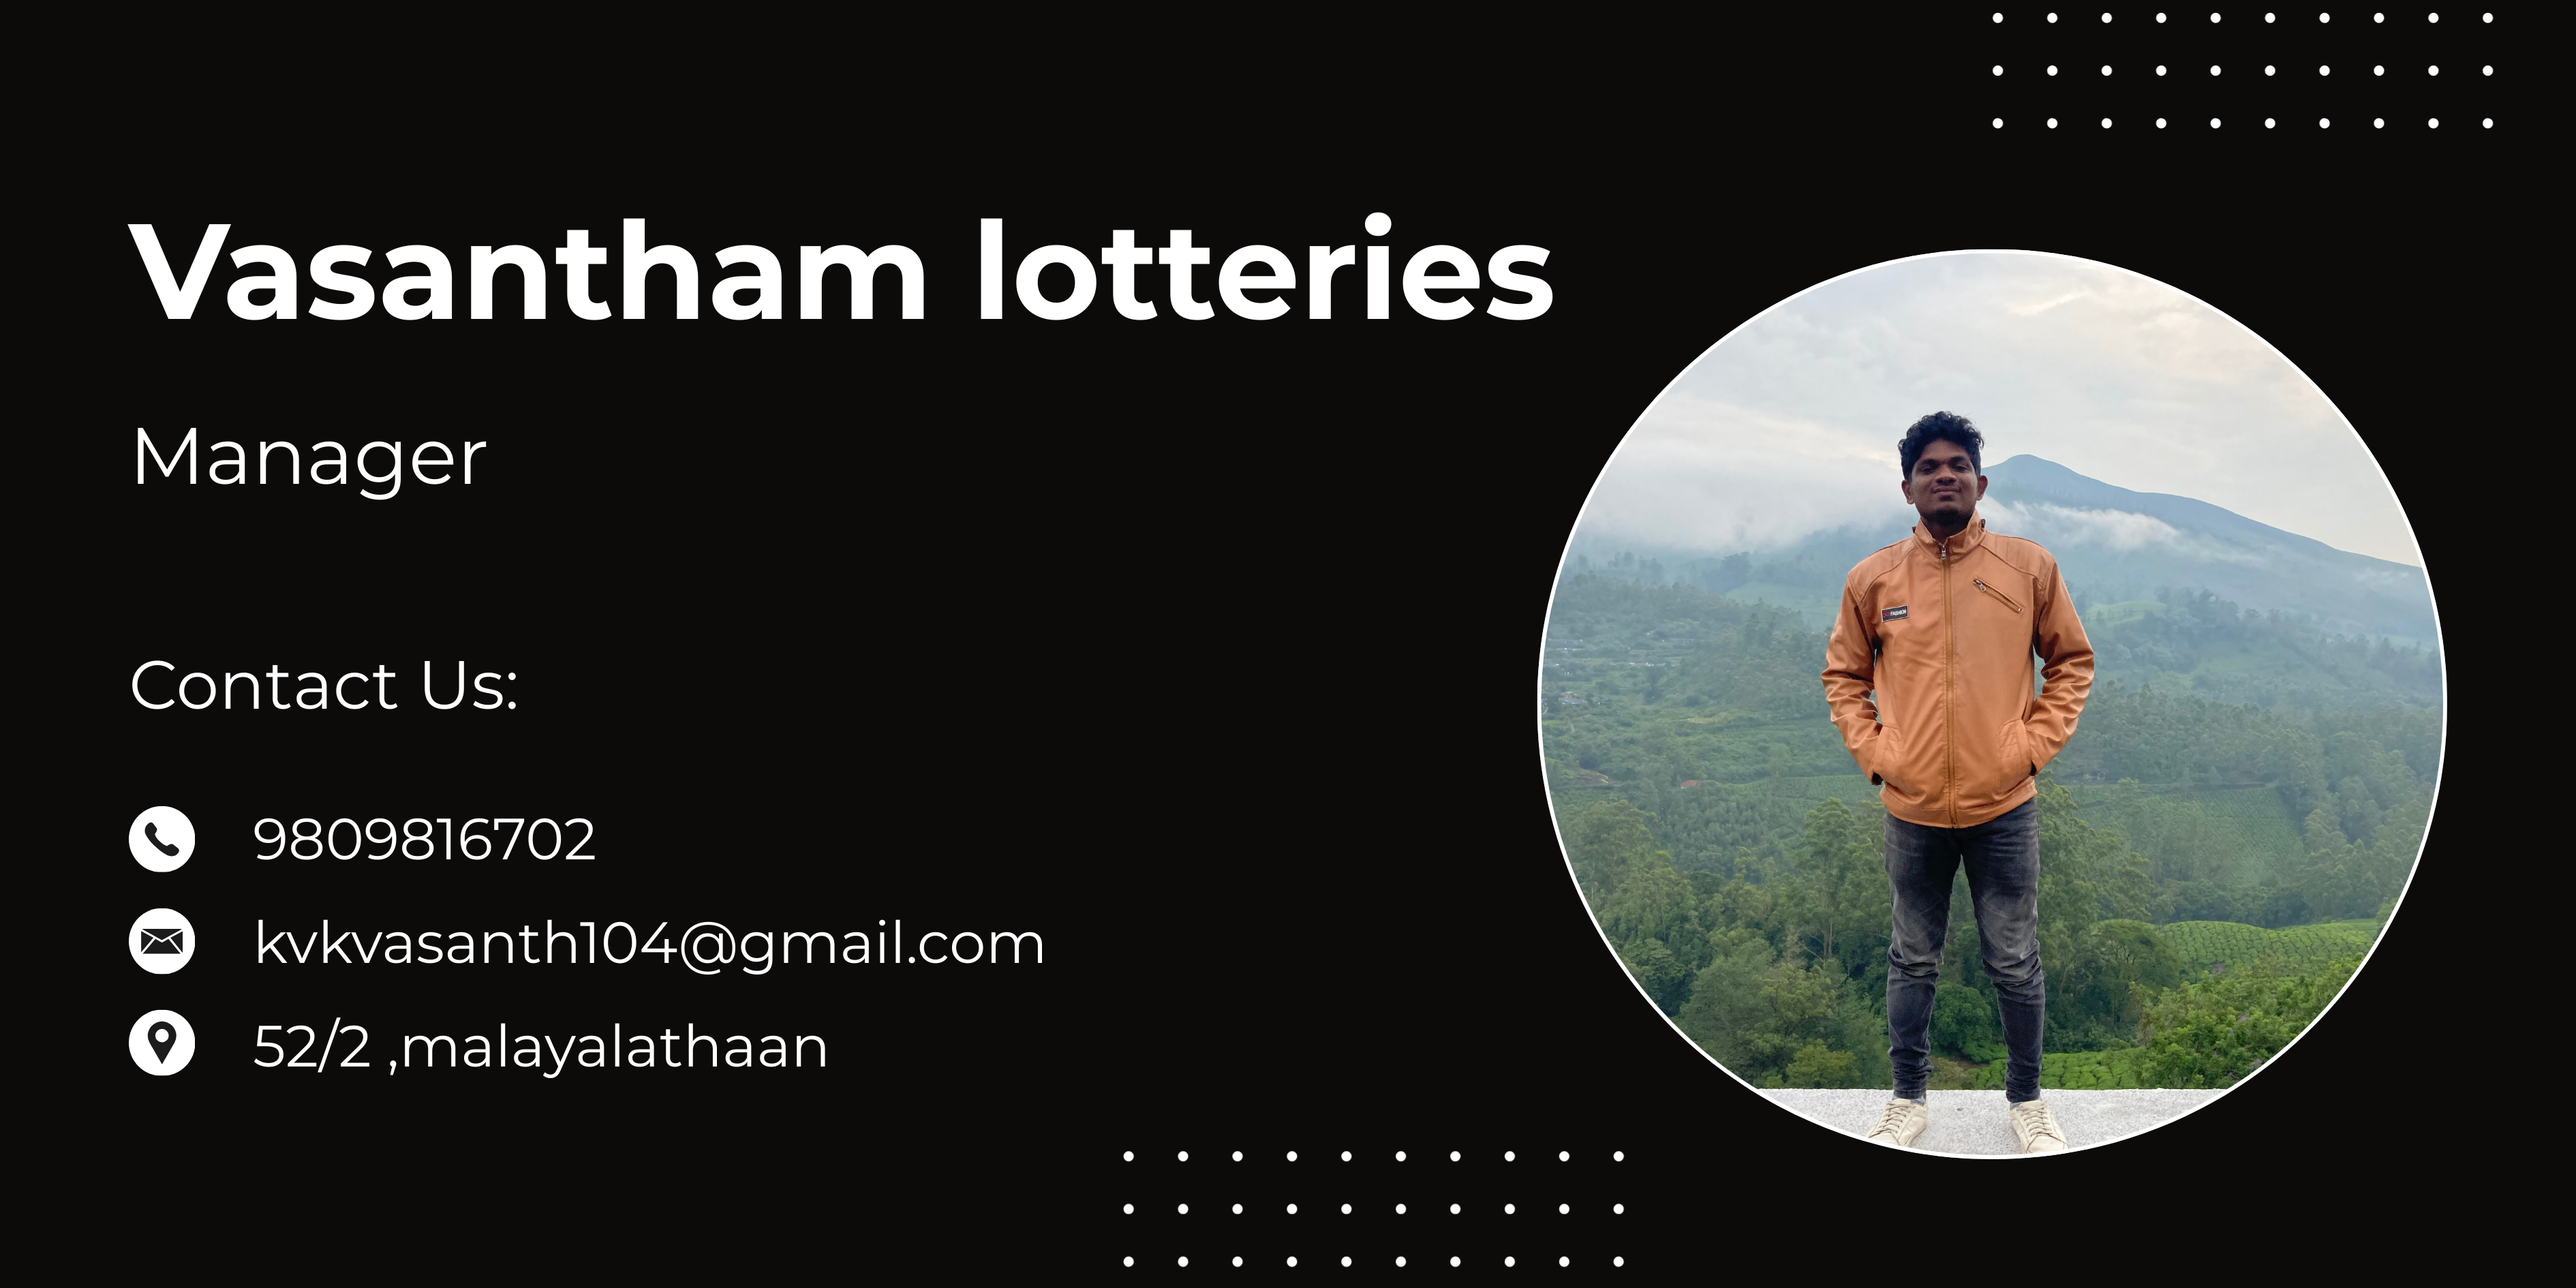
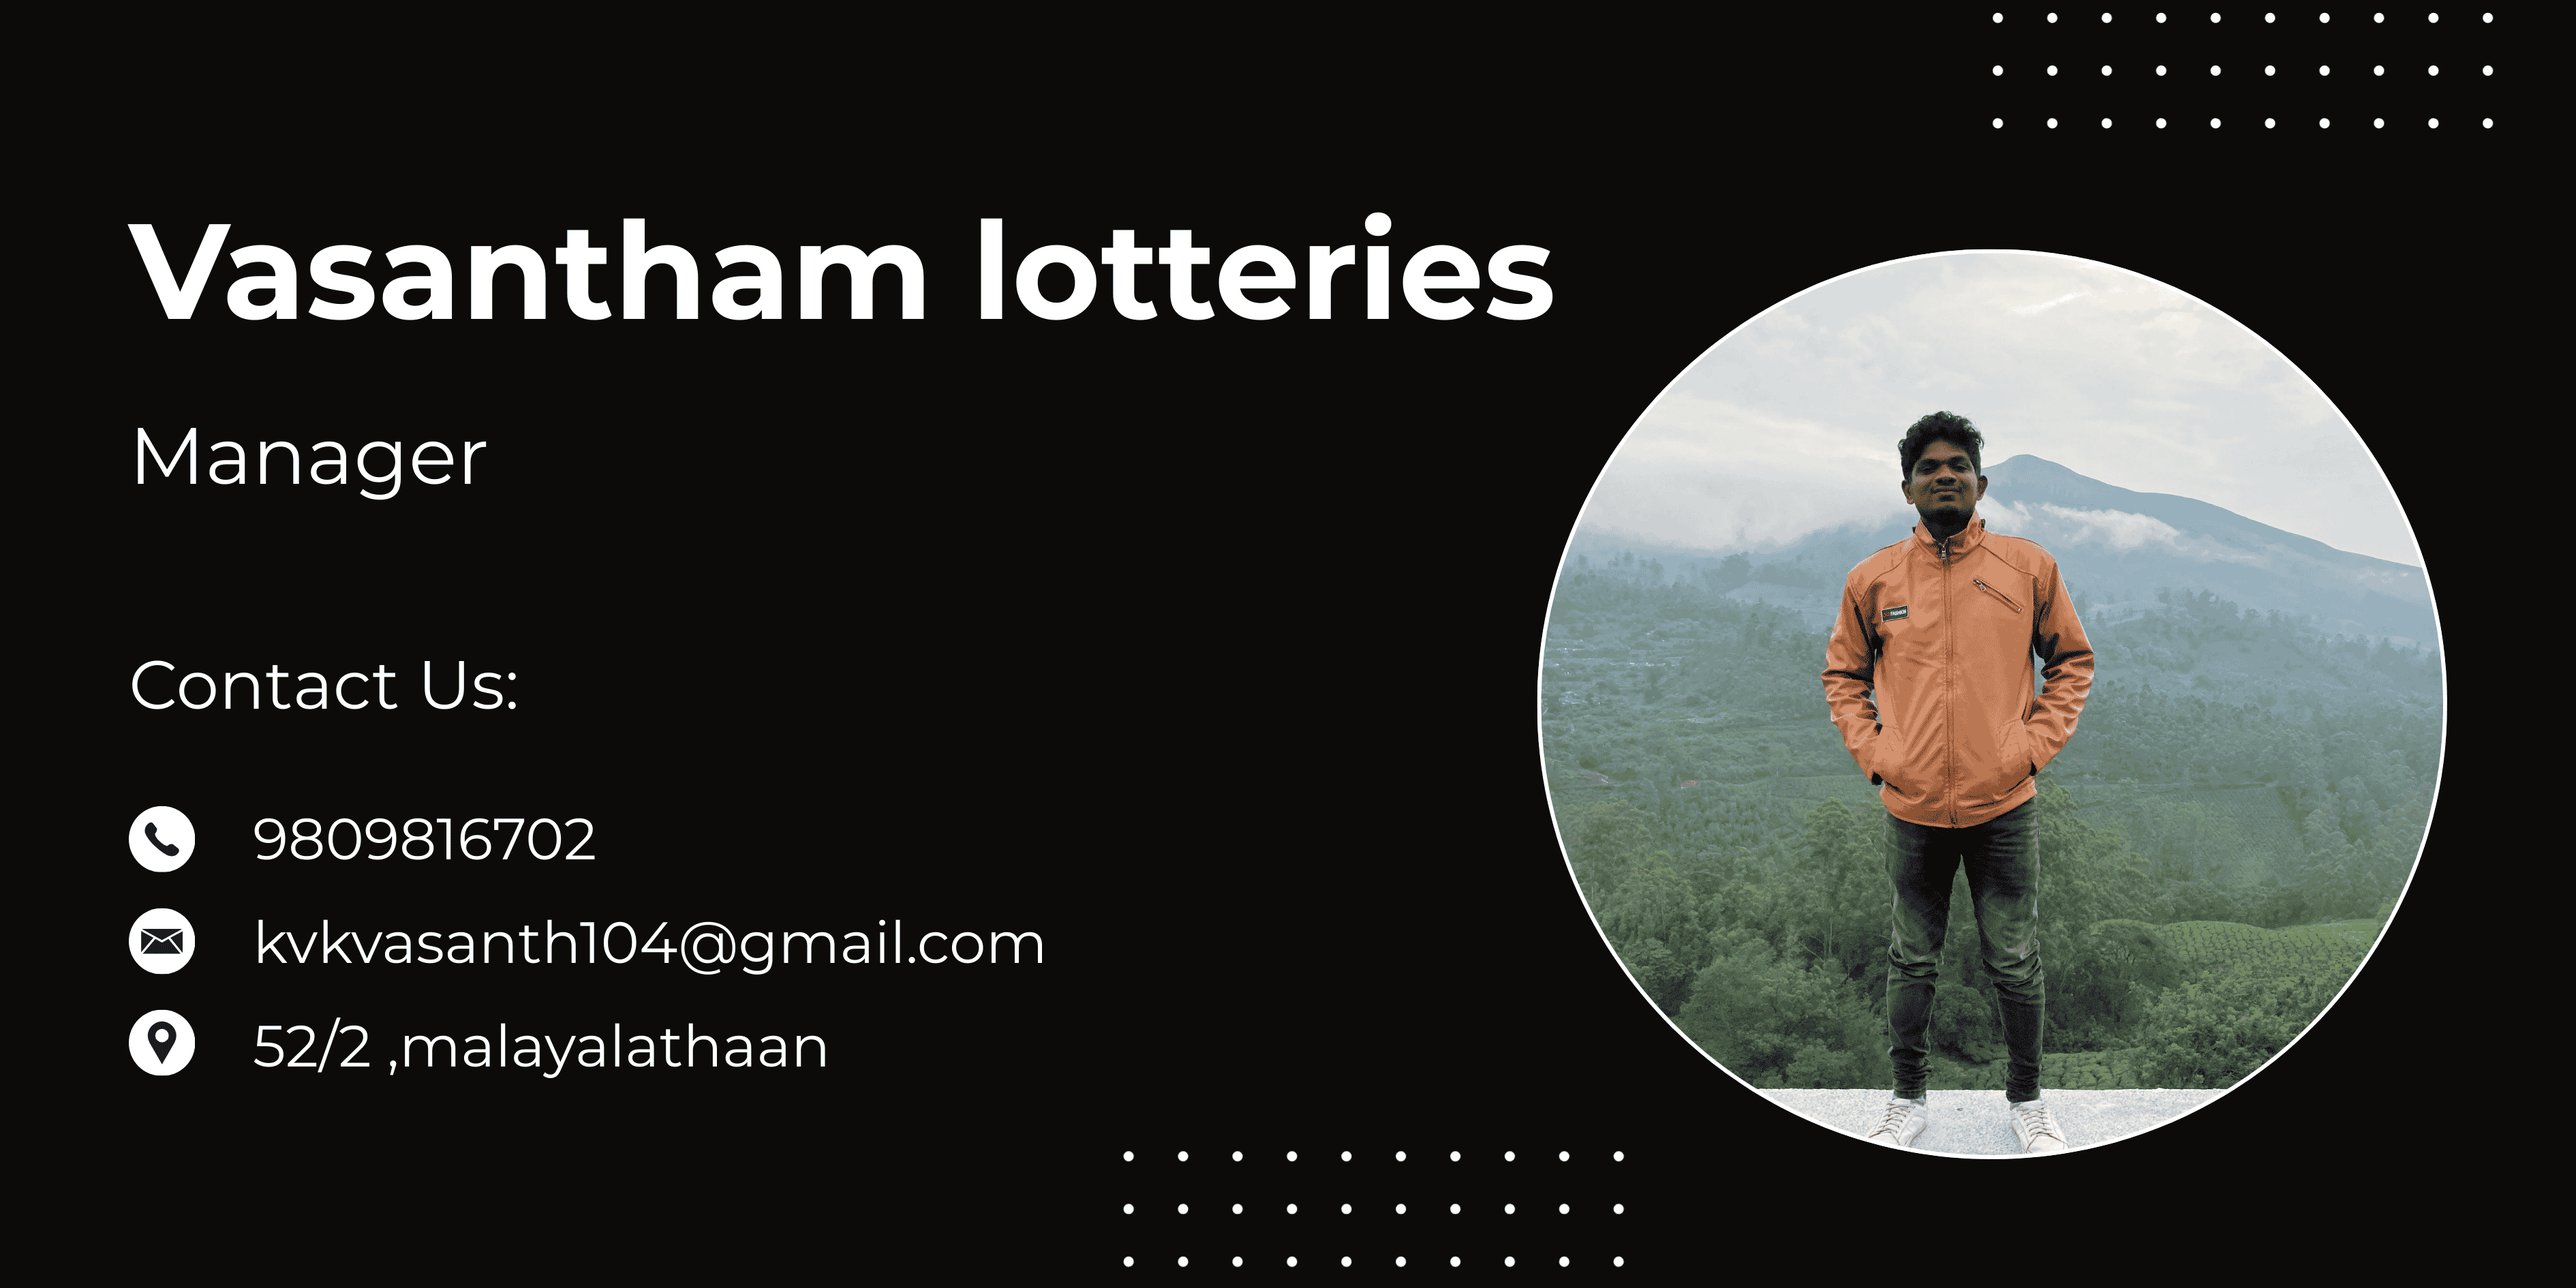
name and ui chnage

diff --git a/public/script.js b/public/script.js
@@ -242,101 +242,120 @@ async function downloadFull() {
   <html>
     <head>
         <style>
+    @page {
+        size: A4;
+        margin: 0;
+    }
 
-        @page {
-            size: A4;
-            margin: 0;
-        }
-
-        body {
-            font-family: Arial, sans-serif;
-            margin: 0;
-            padding: 0;
-            font-size: 12px;
-            color: #333;
-        }
-
-        /* 🔷 FULL WIDTH HEADER */
+    body {
+        font-family: 'Segoe UI', Arial, sans-serif;
+        margin: 0;
+        padding: 0;
+        background: #f4f7fb;
+        color: #333;
+    }
+      /* 🔷 FULL WIDTH HEADER */
         .header-img {
             width: 100%;
             height: auto;
             display: block;
         }
+    /* 🔥 Gradient Header */
+    .header {
+        background: linear-gradient(135deg, #1e3c72, #2a5298);
+        color: white;
+        padding: 25px 20px;
+        text-align: center;
+    }
 
-        /* 🔷 CONTENT AREA WITH SAFE MARGIN */
-        .content {
-            padding: 20mm;
-        }
+    .header h1 {
+        margin: 0;
+        font-size: 22px;
+        letter-spacing: 1px;
+    }
 
-        .title {
-            text-align: center;
-            margin-bottom: 10px;
-        }
+    .header p {
+        margin: 5px 0 0 0;
+        font-size: 12px;
+        opacity: 0.9;
+    }
 
-        .title h1 {
-            margin: 0;
-            font-size: 18px;
-            color: #2a5298;
-        }
+    /* Content */
+    .content {
+        padding: 20mm;
+    }
 
-        .divider {
-            margin: 15px 0;
-            border-top: 2px solid #2a5298;
-        }
+    /* Divider */
+    .divider {
+        height: 3px;
+        background: linear-gradient(90deg, #1e3c72, #2a5298);
+        margin: 20px 0;
+        border-radius: 4px;
+    }
 
-        .prize-block {
-            margin-bottom: 20px;
-            padding: 12px;
-            border: 1px solid #ddd;
-            border-radius: 6px;
-            page-break-inside: avoid;
-            break-inside: avoid;
-        }
+    /* 🔥 Prize Card */
+    .prize-block {
+        background: #ffffff;
+        margin-bottom: 18px;
+        padding: 15px;
+        border-radius: 10px;
+        box-shadow: 0 4px 10px rgba(0, 0, 0, 0.05);
+        border-left: 5px solid #2a5298;
+        page-break-inside: avoid;
+        break-inside: avoid;
+    }
 
-        .prize-block h3 {
-            margin: 0 0 8px 0;
-            font-size: 14px;
-            color: #2a5298;
-        }
+    .prize-block h3 {
+        margin: 0 0 10px 0;
+        font-size: 15px;
+        color: #1e3c72;
+    }
 
-        .number-list {
-            display: flex;
-            flex-wrap: wrap;
-            gap: 6px;
-        }
+    /* Numbers */
+    .number-list {
+        display: flex;
+        flex-wrap: wrap;
+        gap: 8px;
+    }
 
-        .number-list span {
-            padding: 5px 8px;
-            background: #f5f5f5;
-            border-radius: 5px;
-            font-size: 11px;
-            min-width: 40px;
-            text-align: center;
-        }
+    .number-list span {
+        padding: 6px 10px;
+        background: #eef3ff;
+        border-radius: 20px;
+        font-size: 11px;
+        font-weight: 500;
+        border: 1px solid #d0dcff;
+        min-width: 50px;
+        text-align: center;
+        transition: all 0.2s ease;
+    }
 
-        .highlight {
-            background-color: #ffeb3b !important;
-            color: #000 !important;
-            font-weight: bold;
-            border: 1px solid #fbc02d;
-        }
+    /* 🔥 Highlight Winning */
+    .highlight {
+        background: linear-gradient(135deg, #ffcc00, #ff9800) !important;
+        color: #000 !important;
+        font-weight: bold;
+        border: none !important;
+        box-shadow: 0 2px 6px rgba(255, 152, 0, 0.4);
+    }
 
-        .footer {
-            margin-top: 30px;
-            text-align: center;
-            font-size: 10px;
-            color: #777;
-        }
-
+    /* Footer */
+    .footer {
+        margin-top: 40px;
+        text-align: center;
+        font-size: 10px;
+        color: #888;
+    }
         </style>
     </head>
         <body>
       
             <div class="content">
-
-                <div class="title">
-                    <h1>Vasantham DRAW RESULT SYSTEM</h1>
-                </div>
+            <img src="${window.location.origin}/images/vasanthamcontactbanner.png" class="header-img" />
+              <div class="header">
+                <h1>VASANTHAM DRAW RESULT</h1>
+                <p>Smart Ticket Range Matching Report</p>
+            </div>
 
                 <div class="divider"></div>
 

diff --git a/public/index.html b/public/index.html
@@ -4,7 +4,7 @@
 <head>
     <meta charset="UTF-8" />
     <meta name="viewport" content="width=device-width, initial-scale=1.0" />
-    <title>claysys a </title>
+    <title>Vasantham Lottery </title>
     <link rel="stylesheet" href="style.css" />
 </head>
 
